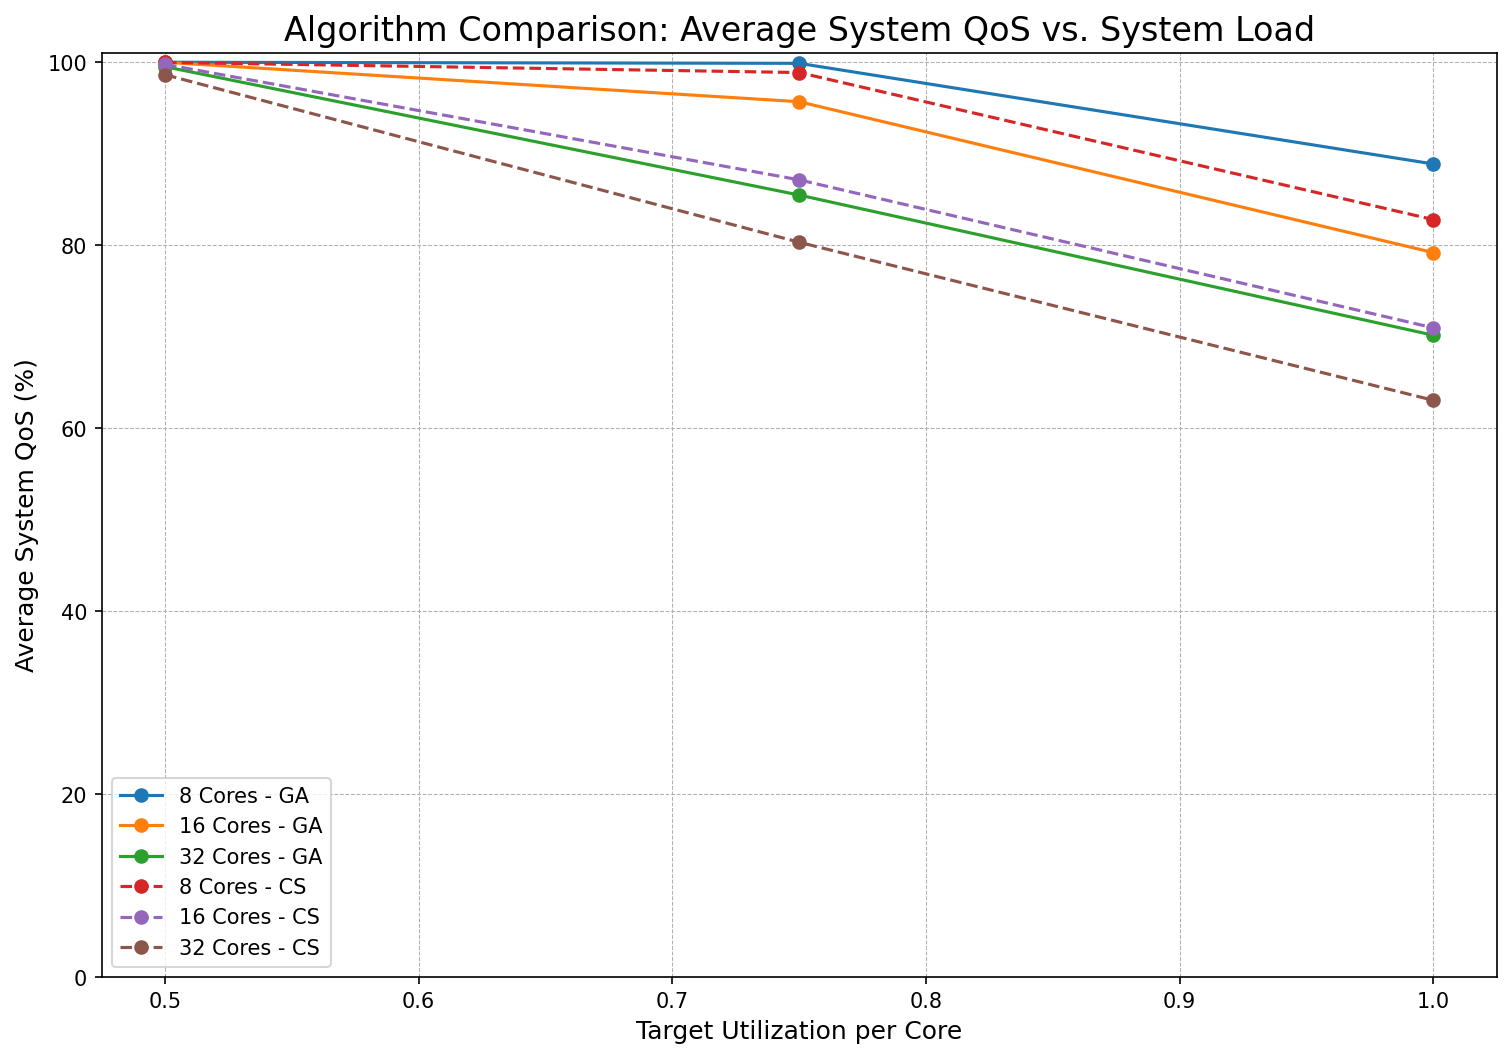
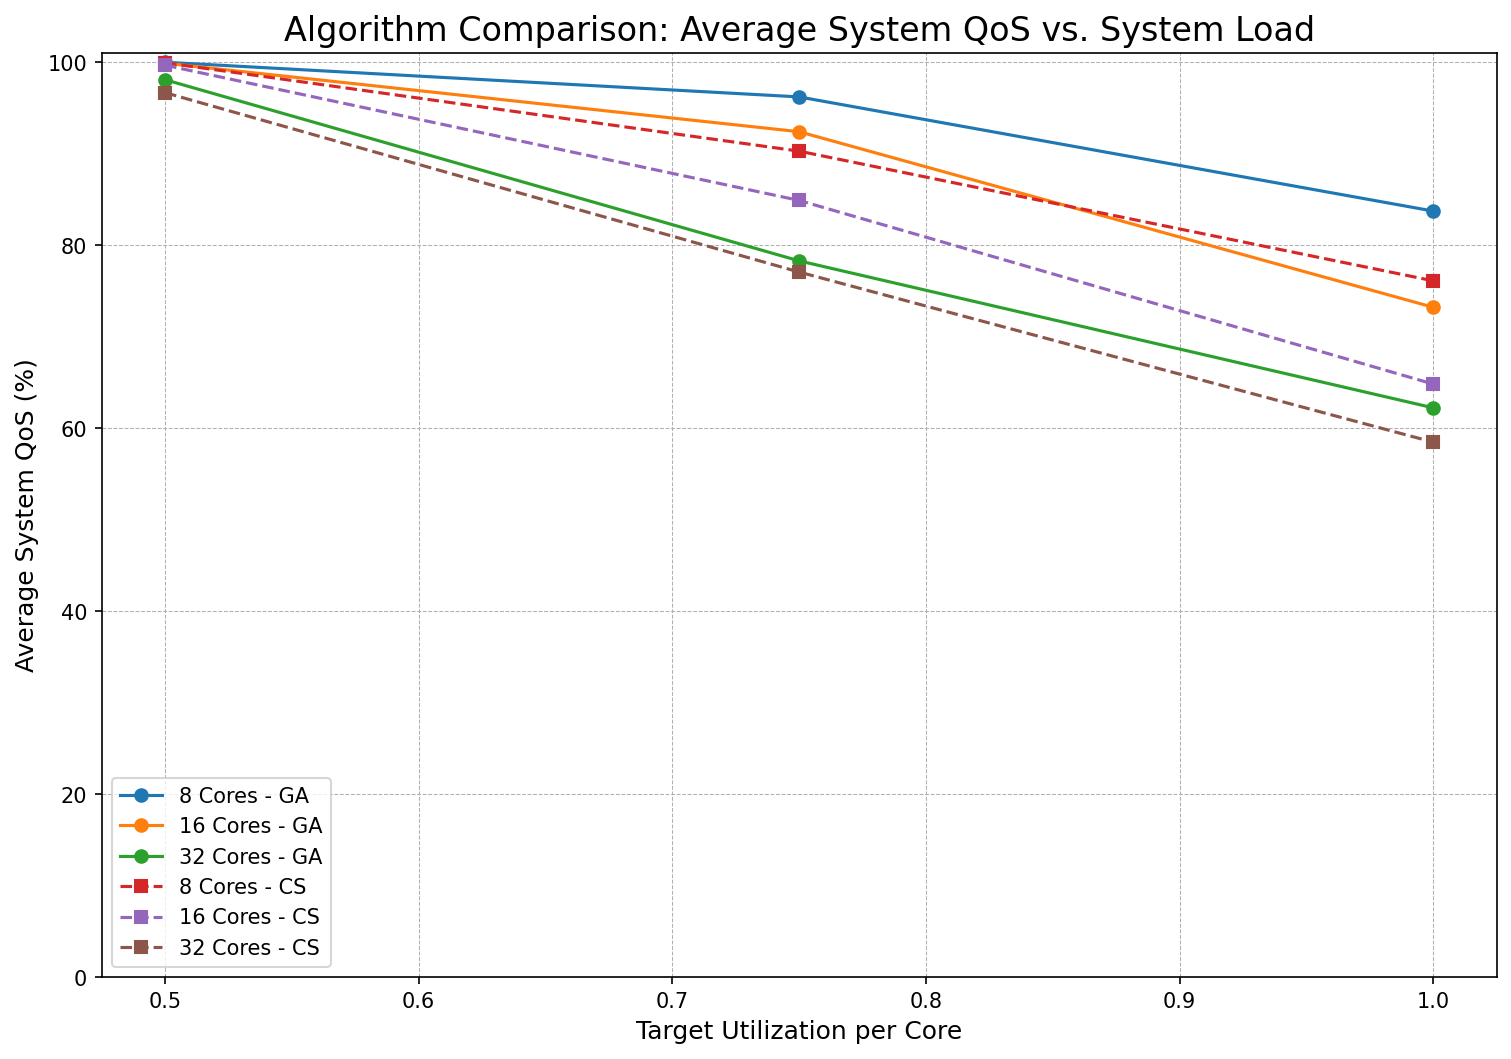
Faster code and more detailed diagrams

Changed region(s): [[0.0933, 0.0312, 0.9643, 0.4363]]

diff --git a/main.py b/main.py
@@ -8,7 +8,7 @@ import time as a_time
 
 
 # ==============================================================================
-# SECTION 1: TASK GENERATION AND EDF SIMULATION (UNCHANGED FROM PREVIOUS VERSION)
+# SECTION 1: TASK GENERATION AND EDF SIMULATION
 # ==============================================================================
 
 def generate_tasks(num_tasks, total_utilization):
@@ -82,51 +82,63 @@ def calculate_qos(finish_time, deadline):
     return 100 * (1 - (finish_time - deadline) / deadline)
 
 
-def get_solution_fitness(solution, tasks, num_cores):
-    if len(solution) == 0: return 0
+def get_full_metrics_for_solution(solution, tasks, num_cores):
+    if len(solution) == 0: return {}
     core_assignments = {i: [] for i in range(num_cores)}
     for task_idx, core_idx in enumerate(solution):
         core_assignments[core_idx].append(tasks[task_idx])
 
-    if not tasks: return 0
+    if not tasks: return {}
     periods = [t['period'] for t in tasks if t['period'] > 0]
-    if not periods: return 0
+    if not periods: return {}
     hyperperiod = reduce(lambda a, b: a * b // gcd(a, b) if a > 0 and b > 0 else a or b, periods, 1)
 
-    all_task_qos = []
+    per_task_qos_list, all_core_utils = [], [sum(t['utilization'] for t in core_assignments[i]) for i in
+                                             range(num_cores)]
+    total_makespan = 0
+
     for core_id in range(num_cores):
         tasks_on_core = core_assignments[core_id]
-        job_results, _ = edf_schedule_on_core(tasks_on_core, hyperperiod)
+        job_results, core_makespan = edf_schedule_on_core(tasks_on_core, hyperperiod)
+        total_makespan = max(total_makespan, core_makespan)
         for task in tasks_on_core:
             if task['id'] in job_results and job_results[task['id']]['finish_times']:
                 qos_values = [calculate_qos(ft, dl) for ft, dl in
                               zip(job_results[task['id']]['finish_times'], job_results[task['id']]['deadlines'])]
                 avg_qos = np.mean(qos_values) if qos_values else 0
-                all_task_qos.append(avg_qos)
+                per_task_qos_list.append({'id': task['id'], 'qos': avg_qos})
             else:
-                all_task_qos.append(0)
+                per_task_qos_list.append({'id': task['id'], 'qos': 0})
 
-    return np.mean(all_task_qos) if all_task_qos else 0
+    per_task_qos_list.sort(key=lambda x: x['id'])
+    system_qos_val = np.mean([item['qos'] for item in per_task_qos_list]) if per_task_qos_list else 0
+
+    return {'core_utils': all_core_utils, 'makespan': total_makespan, 'per_task_qos': per_task_qos_list,
+            'system_qos': system_qos_val}
+
+
+def get_solution_fitness(solution, tasks, num_cores):
+    metrics = get_full_metrics_for_solution(solution, tasks, num_cores)
+    return metrics.get('system_qos', 0)
 
 
 # ==============================================================================
-# SECTION 2: METAHEURISTIC ALGORITHMS (GA AND CUCKOO SEARCH)
+# SECTION 2: METAHEURISTIC ALGORITHMS
 # ==============================================================================
 
 class GeneticScheduler:
-    def __init__(self, tasks, num_cores, pop_size=50, elite_frac=0.2, mutation_rate=0.1, generations=100):
-        self.tasks = tasks
-        self.num_cores = num_cores
+    def __init__(self, tasks, num_cores, pop_size=25, elite_frac=0.2, mutation_rate=0.1, generations=30):
+        self.tasks = tasks;
+        self.num_cores = num_cores;
         self.pop_size = pop_size
-        self.elite_size = int(elite_frac * pop_size)
+        self.elite_size = int(elite_frac * pop_size);
         self.mutation_rate = mutation_rate
-        self.generations = generations
+        self.generations = generations;
         self.fitness_cache = {}
 
     def _fitness(self, solution):
         sol_tuple = tuple(solution)
-        if sol_tuple in self.fitness_cache:
-            return self.fitness_cache[sol_tuple]
+        if sol_tuple in self.fitness_cache: return self.fitness_cache[sol_tuple]
         fitness_val = get_solution_fitness(solution, self.tasks, self.num_cores)
         self.fitness_cache[sol_tuple] = fitness_val
         return fitness_val
@@ -137,19 +149,16 @@ class GeneticScheduler:
     def evolve(self):
         if not self.tasks or self.num_cores == 0: return []
         population = self.initialize_population()
-
         for _ in range(self.generations):
             fitnesses = [self._fitness(p) for p in population]
             elite_indices = np.argsort(fitnesses)[-self.elite_size:]
             new_population = [population[i] for i in elite_indices]
-
             total_fitness = sum(fitnesses)
             if total_fitness > 0:
                 probs = [f / total_fitness for f in fitnesses]
                 parent_indices = np.random.choice(len(population), size=self.pop_size - self.elite_size, p=probs,
                                                   replace=True)
                 parents = [population[i] for i in parent_indices]
-
                 for i in range(0, len(parents), 2):
                     if i + 1 < len(parents):
                         p1, p2 = parents[i], parents[i + 1]
@@ -158,22 +167,20 @@ class GeneticScheduler:
                         for j in range(len(c1)):
                             if random.random() < self.mutation_rate: c1[j] = random.randint(0, self.num_cores - 1)
                         new_population.append(c1)
-
             population = new_population[:self.pop_size]
-
         final_fitnesses = [self._fitness(p) for p in population]
         return population[np.argmax(final_fitnesses)]
 
 
 class CuckooScheduler:
-    def __init__(self, tasks, num_cores, n_nests=50, pa=0.25, beta=1.5, generations=100):
-        self.tasks = tasks
-        self.num_cores = num_cores
+    def __init__(self, tasks, num_cores, n_nests=25, pa=0.25, beta=1.5, generations=30):
+        self.tasks = tasks;
+        self.num_cores = num_cores;
         self.n_nests = n_nests
-        self.pa = pa
-        self.beta = beta
+        self.pa = pa;
+        self.beta = beta;
         self.generations = generations
-        self.n_tasks = len(tasks)
+        self.n_tasks = len(tasks);
         self.fitness_cache = {}
 
     def _fitness(self, nest):
@@ -186,49 +193,34 @@ class CuckooScheduler:
     def _levy_flight_step(self):
         sigma_u = (gamma(1 + self.beta) * np.sin(np.pi * self.beta / 2) / (
                     gamma((1 + self.beta) / 2) * self.beta * 2 ** ((self.beta - 1) / 2))) ** (1 / self.beta)
-        sigma_v = 1
-        u = np.random.normal(0, sigma_u, 1)
-        v = np.random.normal(0, sigma_v, 1)
-        step = u / (np.abs(v) ** (1 / self.beta))
-        return step
+        u = np.random.normal(0, sigma_u, 1);
+        v = np.random.normal(0, 1, 1)
+        return u / (np.abs(v) ** (1 / self.beta))
 
     def run(self):
         if not self.tasks or self.num_cores == 0: return []
         nests = [np.random.randint(0, self.num_cores, self.n_tasks) for _ in range(self.n_nests)]
         fitnesses = np.array([self._fitness(nest) for nest in nests])
-
-        best_nest_idx = np.argmax(fitnesses)
-        best_nest = nests[best_nest_idx]
-        best_fitness = fitnesses[best_nest_idx]
-
+        best_nest = nests[np.argmax(fitnesses)];
+        best_fitness = np.max(fitnesses)
         for _ in range(self.generations):
-            step_size = 0.01 * self._levy_flight_step() * (best_nest - nests[random.randint(0, self.n_nests - 1)])
+            step = self._levy_flight_step()
+            step_size = 0.01 * step * (best_nest - nests[random.randint(0, self.n_nests - 1)])
             new_nest = nests[random.randint(0, self.n_nests - 1)].copy()
-
-            n_changes = int(np.linalg.norm(step_size) / self.n_tasks * 100) + 1
-            n_changes = min(n_changes, self.n_tasks)
-
+            n_changes = min(int(np.linalg.norm(step_size)) + 1, self.n_tasks)
             indices_to_change = random.sample(range(self.n_tasks), n_changes)
-            for idx in indices_to_change:
-                new_nest[idx] = random.randint(0, self.num_cores - 1)
-
+            for idx in indices_to_change: new_nest[idx] = random.randint(0, self.num_cores - 1)
             f_new = self._fitness(new_nest)
             j = random.randint(0, self.n_nests - 1)
-            if f_new > fitnesses[j]:
-                nests[j] = new_nest
-                fitnesses[j] = f_new
-
-            if f_new > best_fitness:
-                best_fitness = f_new
-                best_nest = new_nest
-
-            sorted_indices = np.argsort(fitnesses)
+            if f_new > fitnesses[j]: nests[j], fitnesses[j] = new_nest, f_new
+            if f_new > best_fitness: best_fitness, best_nest = f_new, new_nest
             n_abandon = int(self.pa * self.n_nests)
-            for k in range(n_abandon):
-                idx_to_abandon = sorted_indices[k]
-                nests[idx_to_abandon] = np.random.randint(0, self.num_cores, self.n_tasks)
-                fitnesses[idx_to_abandon] = self._fitness(nests[idx_to_abandon])
-
+            if n_abandon > 0:
+                sorted_indices = np.argsort(fitnesses)
+                for k in range(n_abandon):
+                    idx_to_abandon = sorted_indices[k]
+                    nests[idx_to_abandon] = np.random.randint(0, self.num_cores, self.n_tasks)
+                    fitnesses[idx_to_abandon] = self._fitness(nests[idx_to_abandon])
         return nests[np.argmax(fitnesses)]
 
 
@@ -237,73 +229,153 @@ class CuckooScheduler:
 # ==============================================================================
 
 def run_phase_two_simulation(num_runs_per_config=3):
-    configurations = [
-        (8, 0.5), (8, 0.75), (8, 1.0),
-        (16, 0.5), (16, 0.75), (16, 1.0),
-        (32, 0.5), (32, 0.75), (32, 1.0)
-    ]
+    configurations = [(8, 0.5), (8, 0.75), (8, 1.0), (16, 0.5), (16, 0.75), (16, 1.0), (32, 0.5), (32, 0.75), (32, 1.0)]
     results = {}
-
     for cores, util_per_core in configurations:
         print(f"Running Config: {cores} Cores, {util_per_core} Util/Core...")
-        ga_runs, cs_runs = [], []
+        config_results = {'GA': [], 'CS': []}
         for i in range(num_runs_per_config):
             tasks = generate_tasks(num_tasks=int(4 * cores), total_utilization=cores * util_per_core)
             if not tasks: continue
 
             ga_scheduler = GeneticScheduler(tasks, cores)
             ga_assignment = ga_scheduler.evolve()
-            if len(ga_assignment) > 0:
-                core_utils = [sum(tasks[i]['utilization'] for i, c in enumerate(ga_assignment) if c == core_id) for
-                              core_id in range(cores)]
-                ga_runs.append(get_solution_fitness(ga_assignment, tasks, cores))
+            if len(ga_assignment) > 0: config_results['GA'].append(
+                {'tasks': tasks, 'metrics': get_full_metrics_for_solution(ga_assignment, tasks, cores)})
 
             cs_scheduler = CuckooScheduler(tasks, cores)
             cs_assignment = cs_scheduler.run()
-            if len(cs_assignment) > 0:
-                core_utils = [sum(tasks[i]['utilization'] for i, c in enumerate(cs_assignment) if c == core_id) for
-                              core_id in range(cores)]
-                cs_runs.append(get_solution_fitness(cs_assignment, tasks, cores))
+            if len(cs_assignment) > 0: config_results['CS'].append(
+                {'tasks': tasks, 'metrics': get_full_metrics_for_solution(cs_assignment, tasks, cores)})
 
-        results[(cores, util_per_core)] = {'GA': ga_runs, 'CS': cs_runs}
+        results[(cores, util_per_core)] = config_results
     return results
 
 
-def visualize_comparison_results(results):
+def visualize_detailed_results(results, algo_name, filename):
+    fig, axs = plt.subplots(3, 2, figsize=(18, 24))
+    fig.suptitle(f'Detailed Results for {algo_name}', fontsize=20, y=0.95)
+    plt.subplots_adjust(hspace=0.5, wspace=0.3)
+    util_levels = sorted(list(set(k[1] for k in results.keys())))
+
+    # Plot 1: Individual Task QoS
+    ax = axs[0, 0]
+    sample_config_key = (16, 0.75)
+    if sample_config_key in results and results[sample_config_key][algo_name]:
+        last_run_metrics = results[sample_config_key][algo_name][-1]['metrics']
+        task_qos_data = last_run_metrics.get('per_task_qos', [])
+        if task_qos_data:
+            ax.plot([t['id'] for t in task_qos_data], [t['qos'] for t in task_qos_data], 'o', alpha=0.7)
+    ax.set_title('Individual Task QoS (Sample Run)');
+    ax.set_xlabel('Task ID');
+    ax.set_ylabel('Task QoS (%)');
+    ax.grid(True, linestyle='--', alpha=0.6)
+
+    # Plot 2: Average System QoS
+    ax = axs[0, 1]
+    for cores in [8, 16, 32]:
+        avg_qos_vals = [np.mean(
+            [run['metrics']['system_qos'] for run in results.get((cores, u), {}).get(algo_name, [])]) if results.get(
+            (cores, u), {}).get(algo_name) else np.nan for u in util_levels]
+        ax.plot(util_levels, avg_qos_vals, '-o', label=f'{cores} cores')
+    ax.set_title('Average System QoS vs. System Load');
+    ax.set_xlabel('Target Utilization per Core');
+    ax.set_ylabel('Average QoS (%)');
+    ax.set_ylim(0, 101);
+    ax.legend();
+    ax.grid(True, linestyle='--', alpha=0.6)
+
+    # Plot 3: Average Makespan
+    ax = axs[1, 0]
+    for cores in [8, 16, 32]:
+        avg_makespan_vals = [np.mean(
+            [run['metrics']['makespan'] for run in results.get((cores, u), {}).get(algo_name, [])]) if results.get(
+            (cores, u), {}).get(algo_name) else np.nan for u in util_levels]
+        ax.plot(util_levels, avg_makespan_vals, '-o', label=f'{cores} cores')
+    ax.set_title('Average Makespan vs. System Load');
+    ax.set_xlabel('Target Utilization per Core');
+    ax.set_ylabel('Makespan');
+    ax.legend();
+    ax.grid(True, linestyle='--', alpha=0.6)
+
+    # Plot 4: Core Utilization Distribution
+    ax = axs[1, 1]
+    all_core_utils = [util for cfg_res in results.values() for run in cfg_res[algo_name] for util in
+                      run['metrics']['core_utils']]
+    if all_core_utils: ax.hist(all_core_utils, bins=25, edgecolor='black')
+    ax.set_title('Overall Core Utilization Distribution');
+    ax.set_xlabel('Core Utilization');
+    ax.set_ylabel('Frequency');
+    ax.grid(True, linestyle='--', alpha=0.6)
+
+    # Plot 5: System Schedulability
+    ax = axs[2, 0]
+    configs_str = [f'{c[0]}c/{c[1]}u' for c in results.keys()]
+    avg_sched_vals = [
+        np.mean([run['metrics']['system_qos'] for run in results.get(cfg, {}).get(algo_name, [])]) if results.get(cfg,
+                                                                                                                  {}).get(
+            algo_name) else 0 for cfg in results.keys()]
+    ax.bar(configs_str, avg_sched_vals)
+    ax.set_title('System Schedulability (Avg. QoS)');
+    ax.set_ylabel('Average QoS (%)');
+    ax.tick_params(axis='x', rotation=45);
+    ax.grid(True, axis='y', linestyle='--', alpha=0.6)
+
+    # Plot 6: Task Table
+    ax = axs[2, 1]
+    ax.axis('off')
+    if sample_config_key in results and results[sample_config_key][algo_name]:
+        sample_tasks = results[sample_config_key][algo_name][-1]['tasks'][:6]
+        task_data = [[t['id'], f"{t['execution']:.2f}", t['period'], f"{t['utilization']:.3f}"] for t in sample_tasks]
+        col_labels = ['ID', 'Exec', 'Period', 'Util']
+        table = ax.table(cellText=task_data, colLabels=col_labels, loc='center', cellLoc='center')
+        table.auto_set_font_size(False);
+        table.set_fontsize(10);
+        table.scale(1.1, 1.2)
+        ax.set_title('Sample Task Parameters', pad=20)
+
+    plt.savefig(filename, bbox_inches='tight', dpi=150)
+    plt.close()
+
+
+def visualize_comparison_results(results, filename):
     fig, ax = plt.subplots(1, 1, figsize=(12, 8))
     util_levels = sorted(list(set(k[1] for k in results.keys())))
 
     for algo in ['GA', 'CS']:
         for cores in [8, 16, 32]:
-            avg_qos = []
-            for util in util_levels:
-                if (cores, util) in results:
-                    qos_values = results[(cores, util)][algo]
-                    avg_qos.append(np.mean(qos_values) if qos_values else np.nan)
-                else:
-                    avg_qos.append(np.nan)
-
+            avg_qos = [np.mean(
+                [run['metrics']['system_qos'] for run in results.get((cores, u), {}).get(algo, [])]) if results.get(
+                (cores, u), {}).get(algo) else np.nan for u in util_levels]
             line_style = '-' if algo == 'GA' else '--'
-            ax.plot(util_levels, avg_qos, marker='o', linestyle=line_style, label=f'{cores} Cores - {algo}')
+            marker = 'o' if algo == 'GA' else 's'
+            ax.plot(util_levels, avg_qos, marker=marker, linestyle=line_style, label=f'{cores} Cores - {algo}')
 
     ax.set_title('Algorithm Comparison: Average System QoS vs. System Load', fontsize=16)
     ax.set_xlabel('Target Utilization per Core', fontsize=12)
     ax.set_ylabel('Average System QoS (%)', fontsize=12)
-    ax.set_ylim(0, 101)
-    ax.legend()
+    ax.set_ylim(0, 101);
+    ax.legend();
     ax.grid(True, which='both', linestyle='--', linewidth=0.5)
 
-    plt.savefig('phase_two_comparison.png', bbox_inches='tight', dpi=150)
+    plt.savefig(filename, bbox_inches='tight', dpi=150)
     plt.close()
 
 
 if __name__ == "__main__":
     start_time = a_time.time()
-    simulation_results = run_phase_two_simulation(num_runs_per_config=5)
+    simulation_results = run_phase_two_simulation(num_runs_per_config=3)
+
     if simulation_results:
-        visualize_comparison_results(simulation_results)
-        print("Phase Two simulation finished successfully.")
-        print(f"Results saved to 'phase_two_comparison.png'.")
+        visualize_comparison_results(simulation_results, 'phase_two_comparison.png')
+        print("Generated: phase_two_comparison.png")
+
+        visualize_detailed_results(simulation_results, 'GA', 'phase_two_GA_details.png')
+        print("Generated: phase_two_GA_details.png")
+
+        visualize_detailed_results(simulation_results, 'CS', 'phase_two_CS_details.png')
+        print("Generated: phase_two_CS_details.png")
     else:
         print("Simulation did not produce results.")
+
     print(f"Total execution time: {a_time.time() - start_time:.2f} seconds.")
